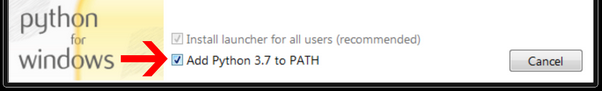
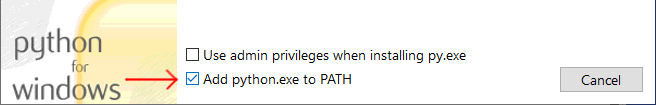
AppVeyor: Updated to Python 3.12 for Qt 6 builds (#3979)
The Qt 5 builds stay on Python 3.8 to keep Windows 7 compatibility.

diff --git a/docs/manual/python.rst b/docs/manual/python.rst
@@ -37,16 +37,20 @@ There are several `example scripts`_ available in the repository.
 
 .. warning::
 
-    On Windows, Python is not installed by default. For the Tiled Python
-    plugin to work, you'll need to install Python 3.8 (get it from
-    https://www.python.org/). You will also need to check the box "Add Python
-    3.8 to PATH" in the installer:
+    For the Tiled Python plugin to work you'll need to install a compatible
+    version of Python.
+
+    On Windows, get Python from https://www.python.org/. As of Tiled 1.11, the
+    Windows 10+ build requires Python 3.12 whereas the Windows 7-8 build
+    requires Python 3.8. You will also need to check the box "Add python.exe to
+    PATH" in the installer:
 
     .. figure:: images/python-windows.png
 
-    On Linux you will also need to install the appropriate package.
-    However, currently Linux builds are done on Ubuntu 20.04 against
-    Python 3.8, and you'd need to install the same version somehow.
+    On Linux you will need to install the appropriate package. However,
+    currently Linux AppImage builds are done on Ubuntu 20.04 against Python
+    3.8, and you'd need to install the same version somehow (on Fedora you can
+    just install the ``python3.8`` package).
 
     The Python plugin is not available for macOS releases, nor in the Ubuntu
     snap.

diff --git a/NEWS.md b/NEWS.md
@@ -25,6 +25,7 @@
 * GameMaker 2 plugin: Fixed positioning of objects on isometric maps
 * Python plugin: Added support for implementing tileset formats (with Pablo Duboue, #3857)
 * Python plugin: Raised minimum Python version to 3.8
+* Python plugin: Now built against Python 3.12 for Windows 10+
 * tmxrasterizer: Added --hide-object and --show-object arguments (by Lars Luz, #3819)
 * tmxrasterizer: Added --frames and --frame-duration arguments to export animated maps as multiple images (#3868)
 * tmxrasterizer: Fixed --hide/show-layer to work on group layers (#3899)
